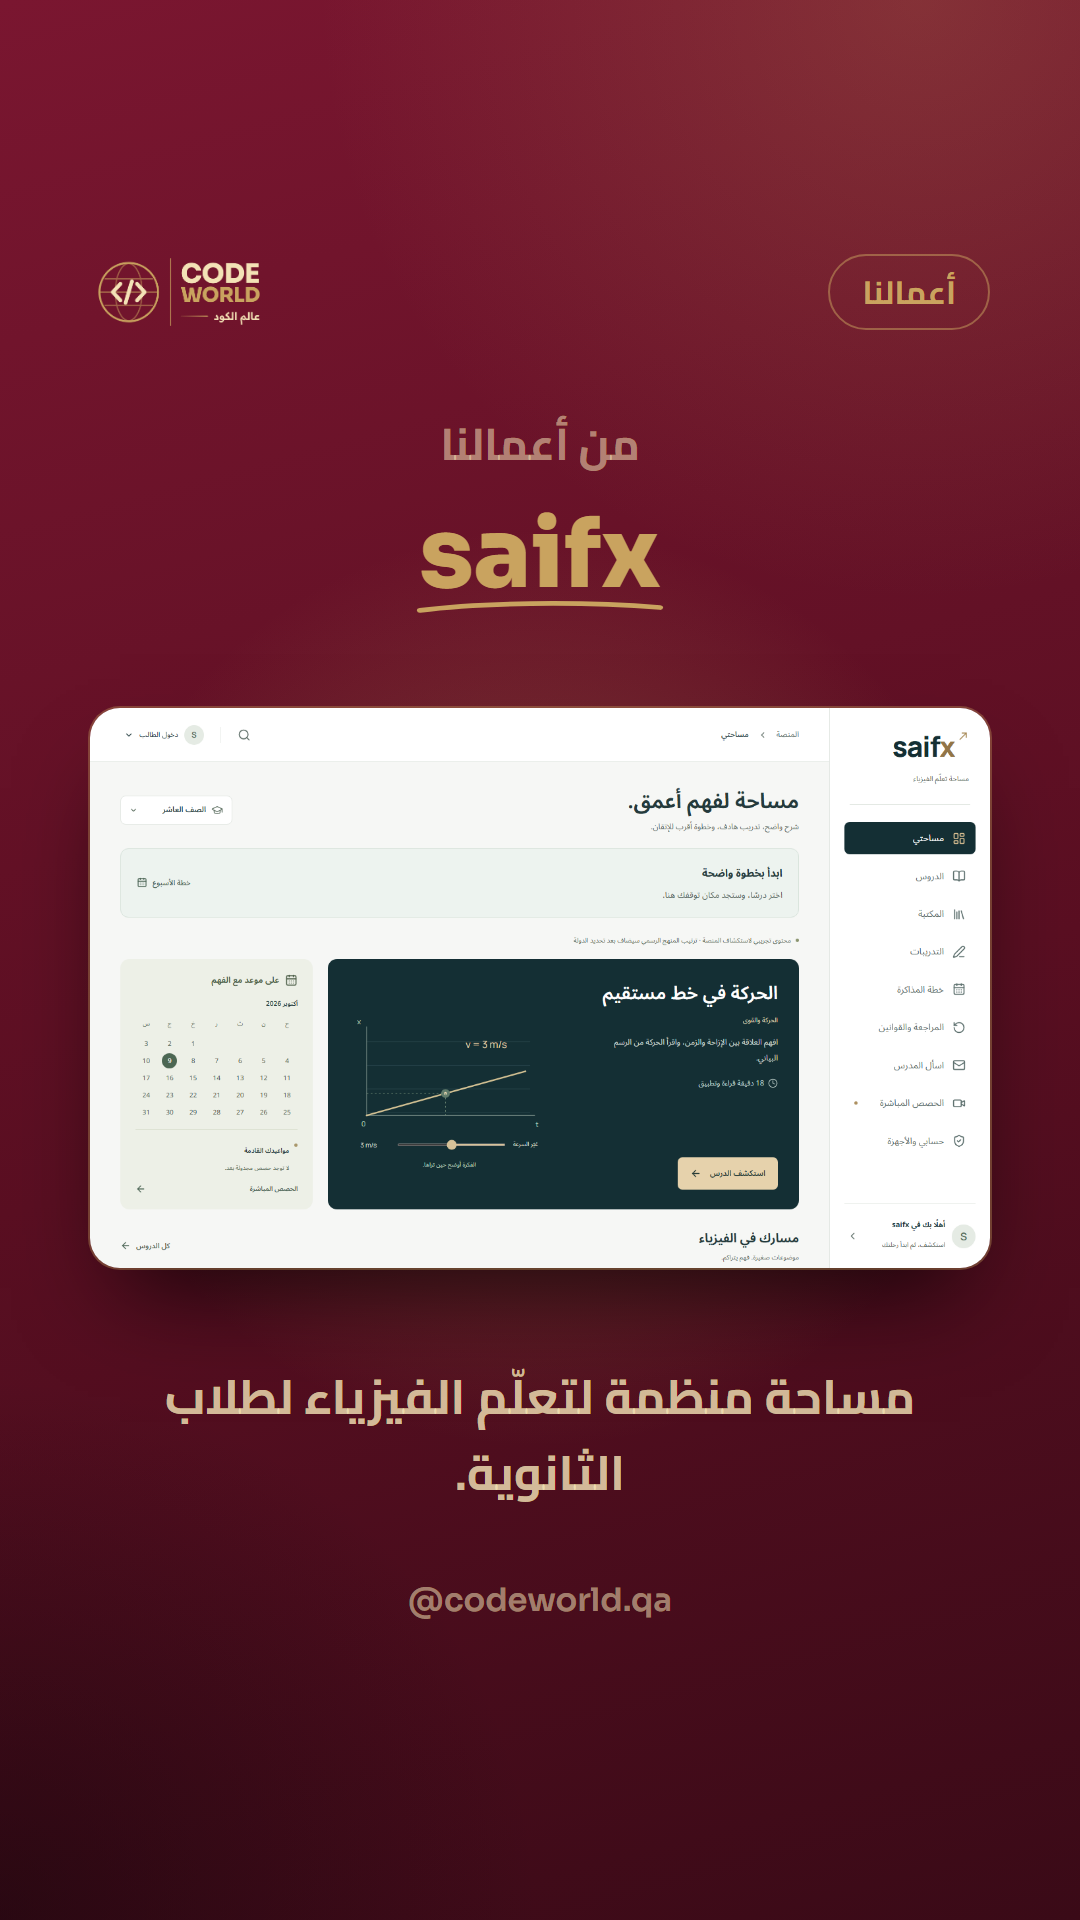
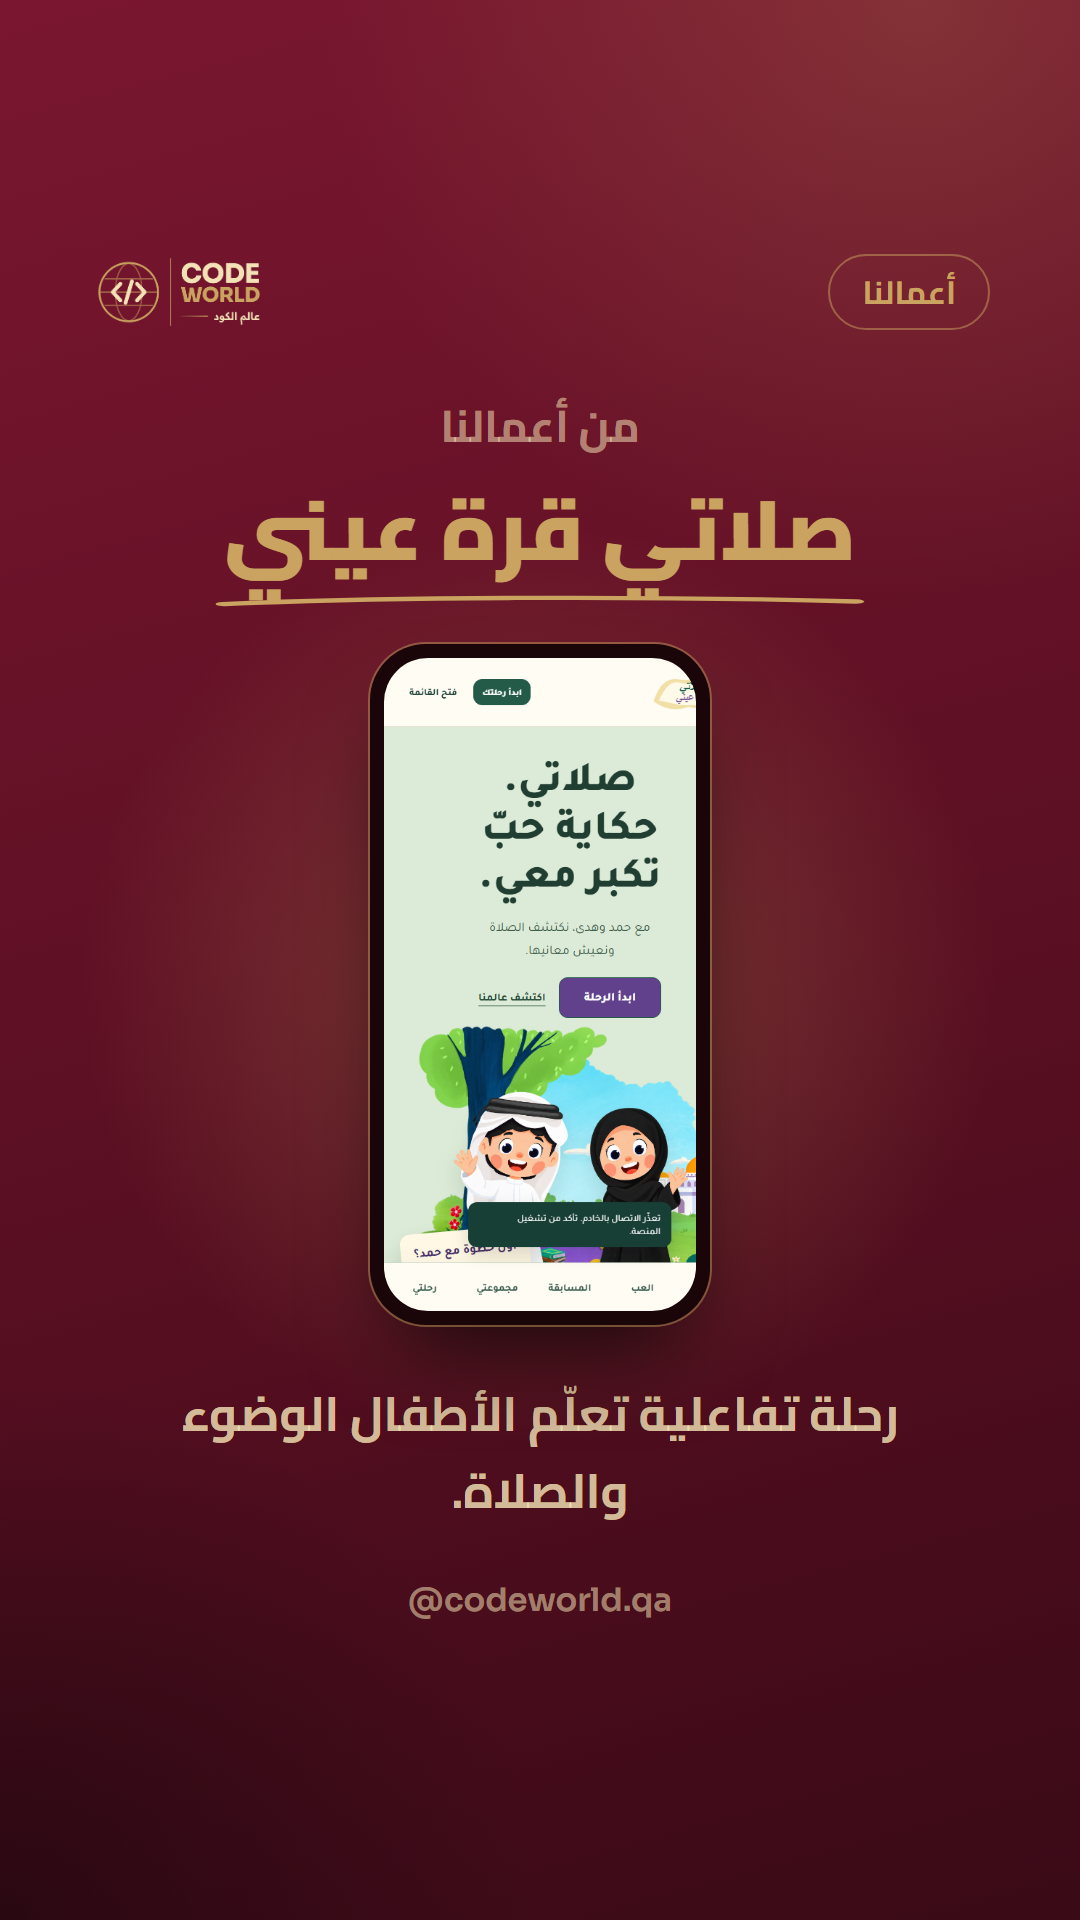
Bring back the school dashboard post and story with a cleaned screenshot

Changed region(s): [[0.0611, 0.2188, 0.9167, 0.8125]]

diff --git a/brand/instagram/posts-cw.html b/brand/instagram/posts-cw.html
@@ -230,6 +230,23 @@ const POSTS = {
             <div><i>✦</i>الأصول الثابتة والتقارير</div>
           </div>
         </div>`, 24),
+  25: () => laptop({k:"EdTech System", cat:"منصة متابعة للمدارس", title:"لوحة <span class='gold'>متابعة المدرسة</span>", img:"edu-clean.jpg", pg:25}),
+  251: () => `${TOP("Analytics")}
+        <div style="margin-top:40px"><span class="chip">تحليل لحظي</span><h3 style="margin-top:20px">أداء كل مادة <span class="gold">بنظرة واحدة</span></h3>
+        <p class="lead" style="margin-top:14px">مؤشرات الدروس والتقييمات لكل مادة وصف.</p></div>
+        <div style="margin-top:80px;display:flex;justify-content:center"><img src="edu-charts.jpg" style="width:940px;border-radius:22px;box-shadow:0 40px 60px rgba(74,14,30,.25);border:2px solid rgba(122,22,48,.12)"></div>
+        ${BOT(25)}`,
+  252: () => D("For Schools", `
+        <div style="margin:auto 0">
+          <h2>إدارة المدرسة<br><span class="gold">بالأرقام</span></h2>
+          <div class="list">
+            <div><i>✦</i>متابعة أداء المعلمين والدروس</div>
+            <div><i>✦</i>تقارير الطلاب ولوحات الصدارة</div>
+            <div><i>✦</i>تحليل التقييمات ونسب الإنجاز</div>
+            <div><i>✦</i>مقارنات بين المواد والصفوف</div>
+            <div><i>✦</i>رفع الملفات وتحليلها تلقائيًا</div>
+          </div>
+        </div>`, 25),
   26: () => D("Data to Decisions", `
         <div style="margin:auto 0">
           <h2>من ملفات متفرقة<br><span class="gold">إلى لوحة واحدة</span></h2>
@@ -243,7 +260,7 @@ const POSTS = {
         </div>`, 26),
 };
 
-const dark = [2,5,8,11,14,17,20,23,242,26].includes(n);
+const dark = [2,5,8,11,14,17,20,23,242,26,252].includes(n);
 document.body.className = dark ? "dark" : "light";
 document.getElementById("f").innerHTML = POSTS[n]();
 </script>

diff --git a/brand/instagram/code-world-stories/stories.html b/brand/instagram/code-world-stories/stories.html
@@ -120,7 +120,7 @@ const I = {
 const ic = (k) => `<svg viewBox="0 0 24 24">${I[k]}</svg>`;
 /* alternate maroon / cream inside every highlight, like the post grid */
 const DARK = ["new-1", "new-3", "services-0", "services-2", "services-4", "services-6", "services-8",
-  "work-0", "work-2", "work-4", "work-6", "work-8", "work-10", "work-12", "how-1", "contact-1"];
+  "work-0", "work-2", "work-4", "work-6", "work-8", "work-10", "work-12", "work-14", "how-1", "contact-1"];
 const HC_DARK = ["services", "how"];
 let LOGO = "../code-world-logo-dark.png", GLOBE = "../cw-globe-ondark.svg";
 const WA = `<span class="cta">واتساب <span style="font-family:Sora;direction:ltr">+974 6648 8228</span></span>`;
@@ -149,6 +149,7 @@ const WK = [
   ["dopamin", "Dopamin", "هوية دافئة وموقع لعلامة حلويات صحية.", "../dopamin.png"],
   ["south", "مطابخ الجنوب", "نظام نقاط بيع وفواتير ومتابعة مبيعات للمطاعم.", "../elwakra-pos.jpg"],
   ["erp", "نظام ERP", "المبيعات والمخزون والمحاسبة والرواتب في نظام واحد.", "../erp-stock.jpg"],
+  ["edu", "لوحة متابعة مدرسية", "الدروس والتقييمات وأداء المعلمين والطلاب في مكان واحد.", "../edu-clean.jpg"],
   ["slaty", "صلاتي قرة عيني", "رحلة تفاعلية تعلّم الأطفال الوضوء والصلاة.", "../slaty.png", true],
   ["saifx", "saifx", "مساحة منظمة لتعلّم الفيزياء لطلاب الثانوية.", "../saifx.png"],
   ["darb", "دَرْب", "منصة ألعاب وأنشطة تعليمية تفاعلية لكل المواد.", "../games-new.png"],

diff --git a/brand/instagram/captions-cw.md b/brand/instagram/captions-cw.md
@@ -28,4 +28,5 @@ Footer for every post:
 22. Marasi Boats — موقع فاخر لرحلات اليخوت والتجارب البحرية في الدوحة. #تصميم_مواقع #قطر
 23. لديك فكرة؟ كل فكرة تستحق عالمًا، ولنبنِ لها عالمها. استشارة أولى مجانية بلا أي التزام — راسلنا على الواتساب. #استشارة_مجانية
 24. (كاروسيل 3 شرائح: post-24, post-241, post-242) نظام ERP يدير شركتك من مكان واحد. المبيعات والمشتريات والفواتير، والمخزون والمستودعات، والمحاسبة والخزينة، والموارد البشرية والرواتب، وأكثر من 30 تقريرًا جاهزًا للطباعة. تحتاج نظامًا يناسب طريقة عمل شركتك؟ اكتب «عالم» في التعليقات. #ERP #أنظمة_محاسبية #قطر
+25. (كاروسيل 3 شرائح: post-25, post-251, post-252) لوحة متابعة للمدرسة تجمع الدروس والتقييمات وأداء المعلمين والطلاب في مكان واحد، وتتحدّث مع كل ملف يُرفع. تدير مدرسة أو مركزًا تعليميًا؟ اكتب «عالم» في التعليقات. #منصات_تعليمية #أنظمة #قطر
 26. من ملفات متفرقة إلى لوحة واحدة: نحوّل بيانات مؤسستك إلى تقارير واضحة تساعدك على اتخاذ القرار. #أنظمة #تقارير

diff --git a/brand/instagram/code-world-stories/README.md b/brand/instagram/code-world-stories/README.md
@@ -8,7 +8,7 @@
 |---|---|---|
 | من نحن | `highlights/new.png` | new-1، new-2، new-3 |
 | خدماتنا | `highlights/services.png` | services-0، ثم services-1 إلى services-8 |
-| أعمالنا | `highlights/work.png` | work-0، ثم work-1 إلى work-13 |
+| أعمالنا | `highlights/work.png` | work-0، ثم work-1 إلى work-14 |
 | طريقتنا | `highlights/how.png` | how-1 |
 | تواصل | `highlights/contact.png` | contact-1، contact-2 |
 
